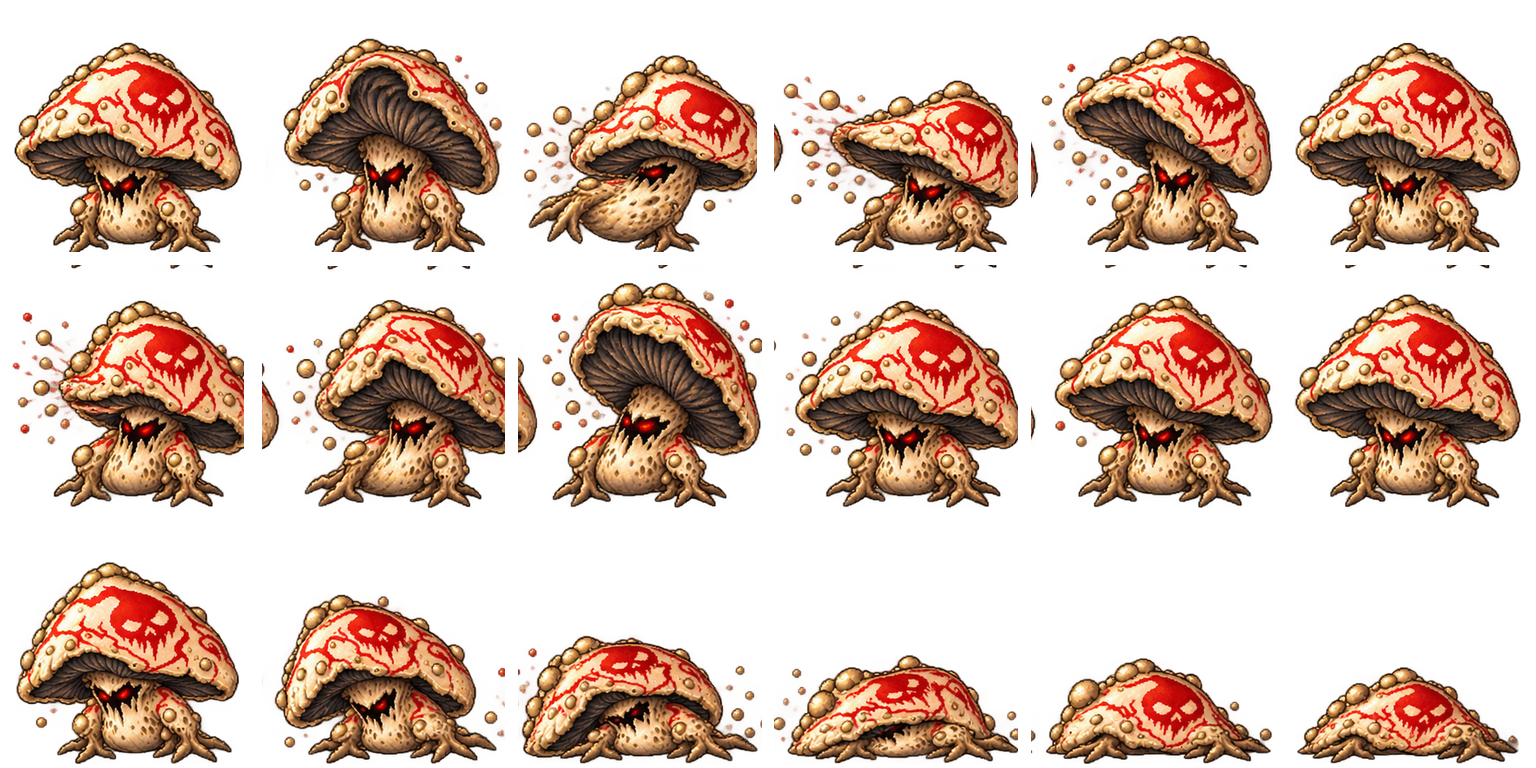
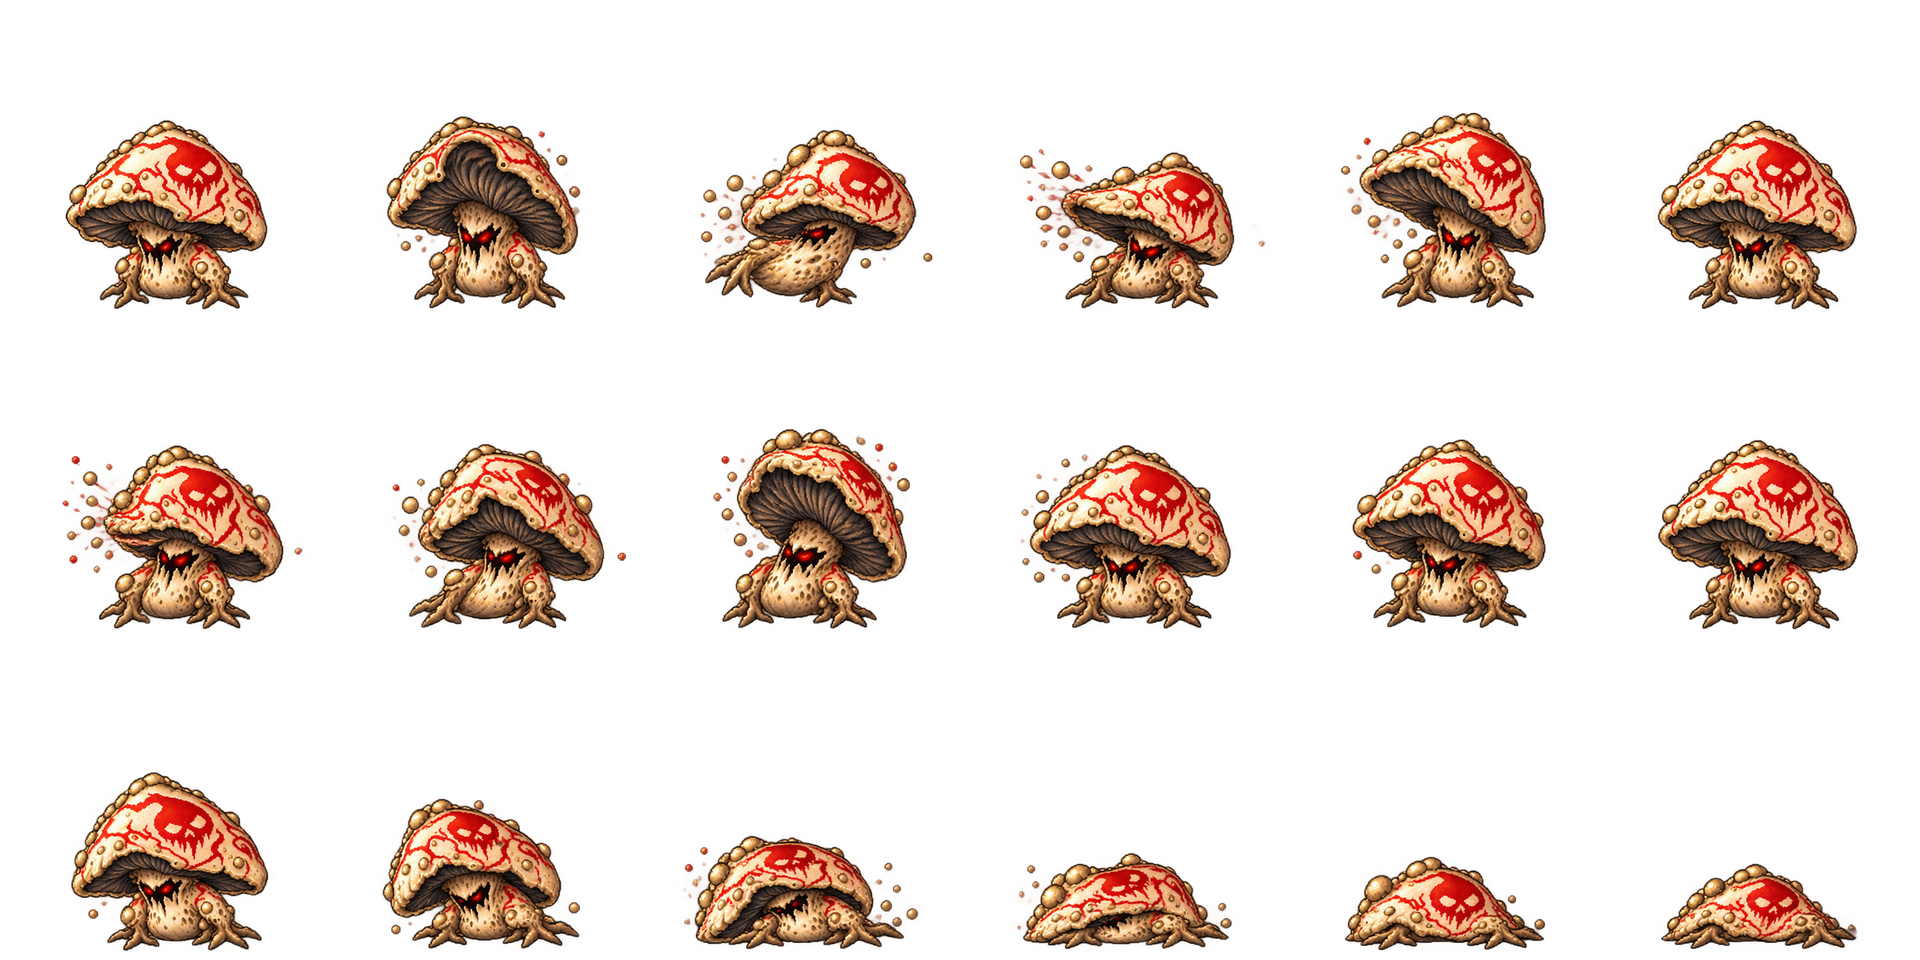
동작 시트를 연결 요소로 분리해 잘린 프레임 보정, 발밑 기준점으로 게임에 배치
원본 6×3 시트의 그림이 칸 경계를 넘어(뻗은 팔·철퇴·날개·다음 줄로 내려간 발끝)
고정 격자로 자르면 그림이 잘리고 이웃 칸 조각이 섞였다.
- tools/build_action_assets.py: 알파 연결 요소로 프레임을 찾고, 붙은 프레임(슬라임)은 침식으로 나눈다.
  떨어진 포자·파편은 가까운 몸통에 붙인다. 칸 안 상대 위치를 살려 몸이 제자리에서 움직이게 하고
  줄마다 마지막 포즈 발밑을 바닥선에 맞춘다. 칸을 320px로 넓혀 넘친 팔·무기까지 담는다.
- js/art.js: 배치 정보 ART_SHEET(스크립트가 다시 씀)로 대기 포즈를 화면 상자에 맞춘 배율을 모든 프레임에 쓴다.
  박쥐는 사망 동작 동안 공중 높이에서 바닥으로 내려온다.
- 테스트·미리보기·문서를 새 칸 크기에 맞춤

Claude-Session: https://claude.ai/code/session_01A5sMTJk3BqRBwA9D1VMK7H

diff --git a/js/art.js b/js/art.js
@@ -73,6 +73,10 @@ function drawBgArt(){
   return true;
 }
 
+// 동작 아틀라스 배치(tools/build_action_assets.py가 다시 쓴다). 칸은 넘친 팔·무기까지 품는 정사각형이고,
+// 모든 프레임이 칸의 (ax, foot)을 발밑 기준점으로 공유한다. iw·ih는 대기 포즈 크기: 화면 상자에 맞출 배율을 여기서 구한다
+const ART_SHEET = { cell:320, ax:160, foot:314,
+  knight:{ iw:176, ih:209 }, slime:{ iw:217, ih:170 }, bat:{ iw:279, ih:258 }, golem:{ iw:238, ih:249 }, shroom:{ iw:213, ih:200 }, boss:{ iw:265, ih:262 } };
 // 각 동작은 여섯 포즈. 공격의 타격 프레임을 짧게 두고 복귀에 여유를 준다.
 const ART_ACTIONS = {
   attack:{ row:0, times:[.06,.06,.05,.06,.09,.10] },
@@ -103,13 +107,15 @@ function drawCharArt(name, cx, dy, o = {}){
   const box = ART_BOX[name];
   const pose = o.actor && (artFrame(o.actor.artAction, o.actor.artElapsed) || { row:0, col:5 });
   const sheet = pose && artImg(name + '_actions');
-  if (sheet && box){
-    // 시트는 고정 크기 셀로 전처리한다. 사망 포즈도 확대하지 않아 바닥에서 크기가 튀지 않는다.
-    const cw = sheet.naturalWidth / 6, ch = sheet.naturalHeight / 3;
-    const size = Math.min(box.w, box.h);
-    const lift = o.actor.artAction === 'death' ? 0 : (box.lift || 0);
-    const x = cx-size/2, y = ART_FOOT-lift-size + (o.actor.artAction ? 0 : dy);
-    const paint = (im, ox=0, oy=0) => ctx.drawImage(im, pose.col*cw, pose.row*ch, cw, ch, x+ox, y+oy, size, size);
+  const meta = ART_SHEET[name];
+  if (sheet && box && meta){
+    // 대기 포즈를 상자에 맞춘 배율을 모든 프레임에 쓴다. 팔·무기는 상자 밖으로 뻗고, 누운 포즈도 커지지 않는다
+    const cell = ART_SHEET.cell, src = sheet.naturalWidth / 6;
+    const k = Math.min(box.w / meta.iw, box.h / meta.ih), size = cell * k;
+    // 날던 박쥐는 사망 앞 세 포즈(0.32초) 동안 바닥으로 내려온다. 한 번에 0으로 떨어지면 첫 프레임이 순간이동해 보인다
+    const lift = (box.lift || 0) * (o.actor.artAction === 'death' ? Math.max(0, 1 - o.actor.artElapsed / .32) : 1);
+    const x = cx - ART_SHEET.ax * k, y = ART_FOOT - lift - ART_SHEET.foot * k + (o.actor.artAction ? 0 : dy);
+    const paint = (im, ox=0, oy=0) => ctx.drawImage(im, pose.col*src, pose.row*src, src, src, x+ox, y+oy, size, size);
     if (o.outline){
       const tint = artTint(name + '_actions', o.outline);
       if (tint) for (const [ox,oy] of [[-1,0],[1,0],[0,-1],[0,1]]) paint(tint, ox, oy);

diff --git a/docs/art/action-preview.html b/docs/art/action-preview.html
@@ -7,5 +7,5 @@ const names={knight:'기사',slime:'슬라임',bat:'박쥐',golem:'골렘',shroo
 const clips=[[.06,.06,.05,.06,.09,.10],[.035,.04,.055,.05,.06,.08],[.10,.10,.12,.12,.14,.16]];
 const views=[];for(const [name,label]of Object.entries(names)){const article=document.createElement('article'),title=document.createElement('h2'),canvas=document.createElement('canvas'),image=new Image();title.textContent=label;canvas.width=canvas.height=320;image.src='../../assets/game/'+name+'_actions.png';article.append(title,canvas);grid.append(article);views.push({canvas,image});}
 let stopped=false,t=0,last=0;pause.onclick=()=>{stopped=!stopped;pause.textContent=stopped?'재생':'일시정지'};action.onchange=()=>t=0;
-function tick(now){if(!stopped)t+=(now-last)/1000*Number(speed.value);last=now;const row=Number(action.value),times=clips[row],duration=times.reduce((a,b)=>a+b,0);let elapsed=t%(duration+.65),col=0;while(col<5&&elapsed>=times[col])elapsed-=times[col++];for(const {canvas,image}of views){const c=canvas.getContext('2d');c.clearRect(0,0,320,320);if(image.complete&&image.naturalWidth)c.drawImage(image,col*256,row*256,256,256,0,0,320,320);}requestAnimationFrame(tick)}requestAnimationFrame(tick);
+function tick(now){if(!stopped)t+=(now-last)/1000*Number(speed.value);last=now;const row=Number(action.value),times=clips[row],duration=times.reduce((a,b)=>a+b,0);let elapsed=t%(duration+.65),col=0;while(col<5&&elapsed>=times[col])elapsed-=times[col++];for(const {canvas,image}of views){const c=canvas.getContext('2d');c.clearRect(0,0,320,320);if(image.complete&&image.naturalWidth){const cell=image.naturalWidth/6;c.drawImage(image,col*cell,row*cell,cell,cell,0,0,320,320)};}requestAnimationFrame(tick)}requestAnimationFrame(tick);
 </script></html>

diff --git a/tools/build_action_assets.py b/tools/build_action_assets.py
@@ -1,33 +1,157 @@
 #!/usr/bin/env python3
-"""생성한 6×3 동작 시트를 고정 셀·공통 배율·바닥 기준으로 패킹한다."""
+"""생성한 6×3 동작 시트(assets/illustrated/actions)를 게임용 아틀라스(assets/game/*_actions.png)로 패킹한다.
+
+원본 그림은 칸 경계를 넘나든다(뻗은 팔·철퇴·날개·다음 줄로 내려간 발끝). 칸을 고정 격자로 자르면
+그림이 잘리고 이웃 칸 조각이 섞이므로, 알파 연결 요소로 프레임을 찾는다.
+  - 칸마다 큰 덩어리 하나가 그 프레임의 몸통. 두 프레임이 붙어 있으면 침식으로 나눈 뒤 다시 키운다.
+  - 몸통과 떨어진 작은 조각(포자·파편·불꽃)은 가장 가까운 몸통에 붙인다.
+  - 알파 20 이하 번짐은 이웃 소유자를 따른다.
+
+배치: 생성 시 고정 피벗으로 그렸으므로 칸 안 상대 위치를 그대로 살려 몸이 제자리에서 움직이게 한다.
+줄마다 마지막 포즈(대기·최종 쓰러짐)의 발밑을 바닥선에 맞춘다(줄 사이 기준선이 원본에서 어긋나 있음).
+모든 프레임이 한 칸에 들어가는 공통 배율 하나만 쓴다(누운 포즈가 커지지 않게).
+배치 정보는 js/art.js의 ART_SHEET 블록을 다시 써서 넘긴다(런타임은 fetch 없이 상수만 읽는다).
+
+실행: python3 tools/build_action_assets.py  (Pillow, numpy 필요. 시트당 수 초)
+"""
+import re
+import sys
 from pathlib import Path
+
+import numpy as np
 from PIL import Image
+
+sys.path.insert(0, str(Path(__file__).resolve().parent))
+from build_game_assets import label  # noqa: E402
+
 ROOT = Path(__file__).resolve().parent.parent
 NAMES = ['knight', 'slime', 'bat', 'golem', 'shroom', 'boss']
-CELL = 256
+CELL = 320           # 아틀라스 칸(px). 칸이 넘침 여백까지 품으므로 대기 포즈는 칸의 60~75%를 차지한다
+PAD = 6              # 칸 가장자리 여백: 부드러운 축소 시 이웃 칸이 번져 들지 않게
+FOOT_ROOM = PAD      # 바닥선 아래 여백. 바닥보다 내려간 프레임은 바닥에 올려 두므로 가장자리 여백만 둔다
+BIG = 3000           # 이보다 큰 덩어리는 프레임 몸통
+ART_JS = ROOT / 'js' / 'art.js'
+
+
+def shift(a, dy, dx, fill):
+    out = np.full_like(a, fill)
+    h, w = a.shape
+    out[max(dy, 0):h + min(dy, 0), max(dx, 0):w + min(dx, 0)] = a[max(-dy, 0):h + min(-dy, 0), max(-dx, 0):w + min(-dx, 0)]
+    return out
+
+
+def grow(lab, allow, steps=None):
+    """lab(-1=빈칸)의 소유를 allow 영역 안으로 4방향으로 번지게 한다."""
+    n = 0
+    while steps is None or n < steps:
+        todo = allow & (lab < 0)
+        if not todo.any():
+            break
+        before = int(todo.sum())
+        for dy, dx in ((1, 0), (-1, 0), (0, 1), (0, -1)):
+            s = shift(lab, dy, dx, -1)
+            take = allow & (lab < 0) & (s >= 0)
+            lab[take] = s[take]
+        n += 1
+        if int((allow & (lab < 0)).sum()) == before:
+            break
+    return lab
+
+
+def split(ys, xs, shape, k):
+    """붙어 버린 k개 프레임 덩어리를 침식으로 씨앗을 나눈 뒤 다시 키워 나눈다."""
+    sub = np.zeros(shape, bool); sub[ys, xs] = True
+    er = sub.copy()
+    for _ in range(60):
+        er = er & shift(er, 1, 0, False) & shift(er, -1, 0, False) & shift(er, 0, 1, False) & shift(er, 0, -1, False)
+        seeds = [p for p in label(er) if p[1] > 500]
+        if len(seeds) >= k:
+            break
+    else:
+        raise SystemExit('붙은 프레임을 나누지 못함')
+    lab = np.full(shape, -1, int)
+    for i, p in enumerate(seeds):
+        lab[p[2]] = i
+    lab = grow(lab, sub)
+    return [np.nonzero(lab == i) for i in range(len(seeds))]
+
+
+def segment(a):
+    """픽셀별 프레임 번호(0~17, -1=버림) 지도."""
+    h, w = a.shape[:2]; cw, ch = w / 6, h / 3
+    comps = label(a[..., 3] > 20)
+    bodies = []
+    for _, cnt, (ys, xs) in (c for c in comps if c[1] > BIG):
+        cells, n = np.unique(np.stack([(ys // ch).astype(int), (xs // cw).astype(int)]), axis=1, return_counts=True)
+        major = [tuple(cells[:, i]) for i in range(len(n)) if n[i] > cnt * .25]
+        parts = [(ys, xs)] if len(major) == 1 else split(ys, xs, (h, w), len(major))
+        for py, px in parts:
+            bodies.append(((int(py.mean() // ch), int(px.mean() // cw)), py, px))
+    bodies.sort(key=lambda b: b[0])
+    cells = [b[0] for b in bodies]
+    assert cells == [(r, c) for r in range(3) for c in range(6)], f'프레임 몸통이 칸마다 하나가 아님: {cells}'
+    owner = np.full((h, w), -1, int)
+    for i, (_, ys, xs) in enumerate(bodies):
+        owner[ys, xs] = i
+    samples = [(ys[::25], xs[::25]) for _, ys, xs in bodies]
+    for _, cnt, (ys, xs) in (c for c in comps if c[1] <= BIG):
+        cy, cx = ys.mean(), xs.mean()
+        owner[ys, xs] = int(np.argmin([((sy - cy) ** 2 + (sx - cx) ** 2).min() for sy, sx in samples]))
+    return grow(owner, a[..., 3] > 0, steps=12)
+
 
 def build(name):
-    source = ROOT / 'assets/illustrated/actions' / (name + '.png')
-    sheet = Image.open(source).convert('RGBA')
-    assert sheet.getchannel('A').getextrema()[0] == 0, f'{name}: 투명 배경 필요'
-    frames = []
-    for row in range(3):
-        for col in range(6):
-            tile = sheet.crop((round(col*sheet.width/6), round(row*sheet.height/3),
-                               round((col+1)*sheet.width/6), round((row+1)*sheet.height/3)))
-            box = tile.getchannel('A').point(lambda a: 255 if a > 20 else 0).getbbox()
-            assert box, f'{name}: 빈 프레임 {row},{col}'
-            frames.append(tile.crop(box))
-    # 사망 프레임을 개별 확대하면 누운 캐릭터가 갑자기 커진다. 한 배율만 공유한다.
-    scale = min((CELL-12)/max(f.width for f in frames), (CELL-12)/max(f.height for f in frames))
-    atlas = Image.new('RGBA', (CELL*6, CELL*3))
-    for i, frame in enumerate(frames):
-        frame = frame.resize((round(frame.width*scale), round(frame.height*scale)), Image.Resampling.LANCZOS)
-        atlas.paste(frame, (i%6*CELL+(CELL-frame.width)//2, i//6*CELL+CELL-4-frame.height))
-    target = ROOT / 'assets/game' / (name+'_actions.png')
+    a = np.array(Image.open(ROOT / 'assets/illustrated/actions' / (name + '.png')).convert('RGBA'))
+    assert a[..., 3].min() == 0, f'{name}: 투명 배경 필요'
+    h, w = a.shape[:2]; cw, ch = w / 6, h / 3
+    owner = segment(a)
+    boxes = []
+    for i in range(18):
+        r, c = divmod(i, 6)
+        ys, xs = np.nonzero(owner == i)
+        boxes.append((xs.min(), ys.min(), xs.max() + 1, ys.max() + 1, c * cw, r * ch))
+    # 가로 기준: 첫 줄 마지막(대기) 포즈의 가운데. 세로 기준: 줄마다 마지막 포즈의 발밑
+    ax = (boxes[5][0] + boxes[5][2]) / 2 - boxes[5][4]
+    foot = [boxes[r * 6 + 5][3] - boxes[r * 6 + 5][5] for r in range(3)]
+    # 칸 안 좌표(기준점 원점)로 바꿔 공통 배율을 구한다
+    # 바닥보다 내려간 프레임은 바닥에 올린다: 박쥐 사망 줄처럼 떨어지는 포즈가 최종 누운 포즈보다 아래에 그려진 원본이 있어,
+    # 그대로 두면 바닥을 뚫고 내려갔다가 다시 올라온다
+    rel = []
+    for i, (x0, y0, x1, y1, ox, oy) in enumerate(boxes):
+        dy = -foot[i // 6] - max(0, y1 - oy - foot[i // 6])
+        rel.append((x0 - ox - ax, y0 - oy + dy, x1 - ox - ax, y1 - oy + dy))
+    half = max(max(-r[0], r[2]) for r in rel)
+    up = max(-r[1] for r in rel)
+    scale = min((CELL / 2 - PAD) / half, (CELL - FOOT_ROOM - PAD) / up)
+    gx, gy = CELL / 2, CELL - FOOT_ROOM
+    atlas = Image.new('RGBA', (CELL * 6, CELL * 3))
+    for i, (x0, y0, x1, y1, ox, oy) in enumerate(boxes):
+        piece = a[y0:y1, x0:x1].copy()
+        piece[owner[y0:y1, x0:x1] != i] = 0
+        im = Image.fromarray(piece)
+        im = im.resize((max(1, round(im.width * scale)), max(1, round(im.height * scale))), Image.Resampling.LANCZOS)
+        r, c = divmod(i, 6)
+        px = c * CELL + round(gx + rel[i][0] * scale)
+        py = r * CELL + round(gy + rel[i][1] * scale)
+        atlas.alpha_composite(im, (px, py))
+    target = ROOT / 'assets/game' / (name + '_actions.png')
     atlas.save(target, optimize=True)
-    print(target.relative_to(ROOT), target.stat().st_size)
+    idle = rel[5]
+    meta = {'iw': round((idle[2] - idle[0]) * scale), 'ih': round((idle[3] - idle[1]) * scale)}
+    print(target.relative_to(ROOT), target.stat().st_size, meta)
+    return meta
+
+
+def write_meta(metas):
+    """art.js의 ART_SHEET 블록을 새 배치로 바꾼다. 손으로 고치지 않게 이 스크립트가 유일한 출처다."""
+    body = ', '.join(f"{n}:{{ iw:{m['iw']}, ih:{m['ih']} }}" for n, m in metas.items())
+    block = (f'const ART_SHEET = {{ cell:{CELL}, ax:{CELL // 2}, foot:{CELL - FOOT_ROOM},\n'
+             f'  {body} }};')
+    src = ART_JS.read_text(encoding='utf8')
+    new, n = re.subn(r'const ART_SHEET = \{.*?\};', block, src, count=1, flags=re.S)
+    assert n == 1, 'js/art.js에서 ART_SHEET 블록을 찾지 못함'
+    ART_JS.write_text(new, encoding='utf8')
+
 
 if __name__ == '__main__':
-    for name in NAMES:
-        build(name)
+    write_meta({n: build(n) for n in NAMES})

diff --git a/docs/art/action-frames.md b/docs/art/action-frames.md
@@ -4,11 +4,16 @@
 원본 스타일과 장비를 참조한 내장 image_gen 생성. 프롬프트는 `assets/illustrated/actions/prompts.json`.
 
 - 원본: `assets/illustrated/actions/{캐릭터}.png` (6열 × 3행)
-- 런타임: `assets/game/{캐릭터}_actions.png` (256px 셀, 1536×768)
+- 런타임: `assets/game/{캐릭터}_actions.png` (320px 셀, 1920×960)
 - 재생 미리보기: `docs/art/action-preview.html`을 브라우저에서 열기. 동작·배속·일시정지 제공.
 - 재생 시간: 공격 0.42초, 피격 0.32초, 사망 0.74초. 타격 프레임은 짧게, 복귀 프레임은 길게.
-- 재생성: `python3 tools/build_action_assets.py` (Pillow 필요). 런타임 빌드 의존성 없음.
-- 각 캐릭터는 공통 배율로 패킹하고 바닥을 정렬한다. 누운 포즈도 확대하지 않는다.
+- 재생성: `python3 tools/build_action_assets.py` (Pillow·numpy 필요, 시트당 수 초). 런타임 빌드 의존성 없음.
+- 원본 그림은 칸 경계를 넘는다(뻗은 팔·철퇴·날개, 다음 줄로 내려간 발끝). 그래서 고정 격자로 자르지 않고
+  알파 연결 요소로 프레임을 분리한다. 붙은 두 프레임(슬라임 공격 5·6)은 침식으로 나누고, 떨어진 포자·파편은 가까운 몸통에 붙인다.
+- 칸 안 상대 위치를 살려 몸이 제자리에서 움직이게 하고, 줄마다 마지막 포즈의 발밑을 바닥선(칸 아래 6px)에 맞춘다.
+  바닥보다 내려간 프레임(박쥐 추락)은 바닥에 올린다. 공통 배율 하나만 써서 누운 포즈도 확대하지 않는다.
+- 배치 정보(`ART_SHEET`: 대기 포즈 크기)는 스크립트가 `js/art.js`에 직접 다시 쓴다. 게임은 대기 포즈를 `ART_BOX`에 맞춘
+  배율을 모든 프레임에 써서, 공격 포즈의 팔·무기는 상자 밖으로 뻗는다.
 - 동작 시트 로드 실패 시 기존 일러스트, 그마저 없으면 도트로 폴백한다.
 - 게임 상태에 연결: 발사·몬스터 공격·직접/독 피격·HP 0/몬스터 사망. 일시정지에서는 시간 진행 없음.
 - 동작 줄이기 설정은 동작별 대표 포즈로 표시한다. 죽은 캐릭터는 마지막 프레임을 유지한다.
@@ -20,4 +25,4 @@
 - 전체 `js/*.js` 문법 검사 통과.
 - `node tools/test-art.mjs`: 18개 프레임 경계, 종료, 사망 우선순위, 시트 소스 좌표, 폴백, reduced-motion 통과.
 - 시뮬레이터 200회 완료, 상세 결과 `docs/qa/session-balance-20261006.md`.
-- 실제 브라우저 검증 미완료: Playwright 패키지는 있으나 Chromium 바이너리가 없고 다운로드 응답이 유효한 ZIP이 아니어서 설치 실패. 미리보기 및 file:// 플레이 흐름은 병합 전 확인 필요.
+- 실제 브라우저(Playwright, `file://`): 몬스터 5종 × 동작 3 × 6프레임을 전투 화면에서 캡처해 잘림·이웃 조각 섞임이 없음을 확인.
